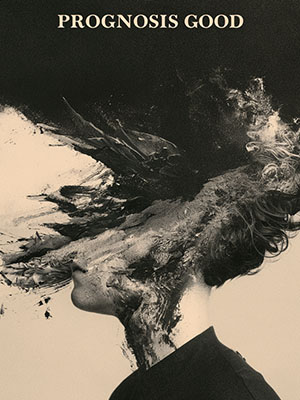
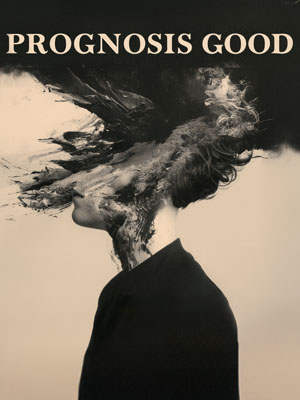
.

diff --git a/short_stories/pixelstortion_Prognosis_Good.html b/short_stories/pixelstortion_Prognosis_Good.html
@@ -614,7 +614,7 @@
     <div class="vignette"></div>
     <div id="progress-bar"></div>
 
-    <audio id="story-audio" src="../spokenWordStory/PixelStortion_Prognosis_Good.mp3" preload="metadata"></audio>
+    <audio id="story-audio" preload="metadata"></audio>
 
     <div id="narration-bar">
         <div class="nb-inner">
@@ -623,8 +623,8 @@
                 <svg id="nb-icon-pause" viewBox="0 0 24 24" xmlns="http://www.w3.org/2000/svg" style="display:none;"><path d="M6 19h4V5H6v14zm8-14v14h4V5h-4z"/></svg>
             </button>
             <div class="nb-main">
-                <div class="nb-label"><span class="nb-kicker">Narration</span><span class="nb-title">Prognosis Good</span></div>
-                <div class="nb-progress" id="nb-progress"><div class="nb-progress-fill" id="nb-fill"></div></div>
+                <div class="nb-label"><span class="nb-kicker">Narration</span><span class="nb-title" id="nb-title">Prognosis Good</span></div>
+                <div class="nb-progress" id="nb-progress"><div class="nb-progress-fill" id="nb-fill"></div><div class="nb-segments" id="nb-segments"></div></div>
             </div>
             <div class="nb-time"><span id="nb-current">0:00</span> / <span id="nb-duration">0:00</span></div>
         </div>
@@ -1326,12 +1326,31 @@
             const nbIconPause = document.getElementById('nb-icon-pause');
             const nbProgress = document.getElementById('nb-progress');
             const nbFill = document.getElementById('nb-fill');
+            const nbSegments = document.getElementById('nb-segments');
+            const nbTitle = document.getElementById('nb-title');
             const nbCurrent = document.getElementById('nb-current');
             const nbDuration = document.getElementById('nb-duration');
 
+            const NARRATION_BASE = '../spokenWordStory/';
+            const NARRATION_PARTS = [
+                { file: 'PixelStortion_Prognosis_Good_part_1.mp3', label: 'Part One' },
+                { file: 'PixelStortion_Prognosis_Good_part_2.mp3', label: 'Part Two' },
+                { file: 'PixelStortion_Prognosis_Good_part_3.mp3', label: 'Part Three' },
+                { file: 'PixelStortion_Prognosis_Good_part_4.mp3', label: 'Part Four' },
+                { file: 'PixelStortion_Prognosis_Good_part_5.mp3', label: 'Part Five' }
+            ];
+
             if (audioEl && nbToggle) {
+                const N = NARRATION_PARTS.length;
                 const POS_KEY = 'narration_pos:' + location.pathname;
+                const durs = new Array(N).fill(0);
+                const cum = new Array(N + 1).fill(0);
+                let total = 0;
+                let durationsReady = false;
+                let current = 0;
                 let nbDragging = false;
+                let advancing = false;   // true while auto-advancing / seeking across parts
+                let gestureBound = false;
                 let lastSave = 0;
 
                 const fmt = (s) => {
@@ -1345,48 +1364,108 @@
                     nbIconPause.style.display = playing ? 'block' : 'none';
                     nbToggle.setAttribute('aria-label', playing ? 'Pause narration' : 'Play narration');
                 };
+                const globalTime = () => (cum[current] || 0) + (audioEl.currentTime || 0);
                 const savePos = () => {
-                    try { localStorage.setItem(POS_KEY, String(audioEl.currentTime)); } catch (e) {}
+                    try { localStorage.setItem(POS_KEY, JSON.stringify({ p: current, t: audioEl.currentTime || 0 })); } catch (e) {}
                 };
-                const restorePos = () => {
-                    nbDuration.textContent = fmt(audioEl.duration);
-                    let saved = 0;
-                    try { saved = parseFloat(localStorage.getItem(POS_KEY)) || 0; } catch (e) {}
-                    if (saved > 1 && saved < audioEl.duration - 2) {
-                        try { audioEl.currentTime = saved; } catch (e) {}
-                        if (audioEl.duration) nbFill.style.width = (saved / audioEl.duration * 100) + '%';
-                        nbCurrent.textContent = fmt(saved);
+                const clearSaved = () => { try { localStorage.removeItem(POS_KEY); } catch (e) {} };
+
+                const render = () => {
+                    nbTitle.textContent = NARRATION_PARTS[current].label;
+                    if (durationsReady && total) {
+                        if (!nbDragging) nbFill.style.width = (globalTime() / total * 100) + '%';
+                        nbCurrent.textContent = fmt(globalTime());
+                        nbDuration.textContent = fmt(total);
+                    } else if (audioEl.duration) {
+                        // fallback until every part is measured: show current part's own progress
+                        if (!nbDragging) nbFill.style.width = (audioEl.currentTime / audioEl.duration * 100) + '%';
+                        nbCurrent.textContent = fmt(audioEl.currentTime);
+                        nbDuration.textContent = fmt(audioEl.duration);
                     }
                 };
+                const buildSegments = () => {
+                    if (!nbSegments || !total) return;
+                    let html = '';
+                    for (let i = 1; i < N; i++) html += '<span class="nb-seg-divider" style="left:' + (cum[i] / total * 100) + '%"></span>';
+                    nbSegments.innerHTML = html;
+                };
 
-                audioEl.addEventListener('loadedmetadata', restorePos);
-                if (audioEl.readyState >= 1) restorePos();
+                const attemptPlay = () => {
+                    audioEl.play().then(() => { advancing = false; }).catch(() => {
+                        advancing = false;
+                        if (gestureBound) return;
+                        gestureBound = true;
+                        const gestures = ['pointerup', 'touchend', 'click', 'keydown'];
+                        const onGesture = (e) => {
+                            if (e.target && e.target.closest && e.target.closest('#narration-bar')) return;
+                            audioEl.play().then(() => {
+                                gestures.forEach(g => document.removeEventListener(g, onGesture, true));
+                                gestureBound = false;
+                            }).catch(() => {});
+                        };
+                        gestures.forEach(g => document.addEventListener(g, onGesture, true));
+                    });
+                };
+
+                const loadPart = (i, play, seekWithin) => {
+                    current = Math.max(0, Math.min(N - 1, i));
+                    advancing = true;
+                    audioEl.src = NARRATION_BASE + NARRATION_PARTS[current].file;
+                    const onReady = () => {
+                        audioEl.removeEventListener('loadedmetadata', onReady);
+                        if (seekWithin && seekWithin > 0) {
+                            try { audioEl.currentTime = Math.min(seekWithin, (audioEl.duration || seekWithin)); } catch (e) {}
+                        }
+                        render();
+                        if (play) attemptPlay(); else advancing = false;
+                    };
+                    audioEl.addEventListener('loadedmetadata', onReady);
+                    audioEl.load();
+                    render();
+                };
+
+                // Preload each part's duration so the unified timeline + section marks are accurate
+                NARRATION_PARTS.forEach((part, i) => {
+                    const probe = new Audio();
+                    probe.preload = 'metadata';
+                    probe.src = NARRATION_BASE + part.file;
+                    probe.addEventListener('loadedmetadata', () => {
+                        durs[i] = probe.duration || 0;
+                        if (durs.every(d => d > 0)) {
+                            for (let k = 0; k < N; k++) cum[k + 1] = cum[k] + durs[k];
+                            total = cum[N];
+                            durationsReady = true;
+                            buildSegments();
+                            render();
+                        }
+                    });
+                });
 
                 audioEl.addEventListener('timeupdate', () => {
                     if (nbDragging) return;
-                    const d = audioEl.duration || 0;
-                    if (d > 0) nbFill.style.width = (audioEl.currentTime / d * 100) + '%';
-                    nbCurrent.textContent = fmt(audioEl.currentTime);
+                    render();
                     const now = Date.now();
                     if (now - lastSave > 3000) { lastSave = now; savePos(); }
                 });
-
-                // Narration is the master: while it plays, the cross-page theme
-                // music fades out; when it stops, the theme fades back in.
                 audioEl.addEventListener('play', () => {
                     setIcons(true);
                     if (typeof window.fadeOutAmbientMusic === 'function') window.fadeOutAmbientMusic();
                 });
                 audioEl.addEventListener('pause', () => {
+                    if (advancing) return;   // part swap, not a real stop
                     setIcons(false);
                     savePos();
                     if (typeof window.resumeAmbientMusic === 'function') window.resumeAmbientMusic();
                 });
                 audioEl.addEventListener('ended', () => {
-                    setIcons(false);
-                    nbFill.style.width = '100%';
-                    try { localStorage.removeItem(POS_KEY); } catch (e) {}
-                    if (typeof window.resumeAmbientMusic === 'function') window.resumeAmbientMusic();
+                    if (current < N - 1) {
+                        loadPart(current + 1, true, 0);   // seamless auto-advance to the next section
+                    } else {
+                        setIcons(false);
+                        nbFill.style.width = '100%';
+                        clearSaved();
+                        if (typeof window.resumeAmbientMusic === 'function') window.resumeAmbientMusic();
+                    }
                 });
 
                 nbToggle.addEventListener('click', () => {
@@ -1394,15 +1473,20 @@
                     else audioEl.pause();
                 });
 
-                // Scrub: click, drag, and touch to seek (return-later friendly)
+                // Seek across the WHOLE narration (click / drag / touch) -> lands in the right part
                 const seekTo = (clientX) => {
+                    if (!durationsReady || !total) return;
                     const r = nbProgress.getBoundingClientRect();
                     const ratio = Math.max(0, Math.min(1, (clientX - r.left) / r.width));
                     nbFill.style.width = (ratio * 100) + '%';
-                    if (audioEl.duration) {
-                        audioEl.currentTime = ratio * audioEl.duration;
-                        nbCurrent.textContent = fmt(audioEl.currentTime);
-                    }
+                    const g = ratio * total;
+                    nbCurrent.textContent = fmt(g);
+                    let j = 0;
+                    while (j < N - 1 && g >= cum[j + 1]) j++;
+                    const within = g - cum[j];
+                    const wasPlaying = !audioEl.paused;
+                    if (j === current) { try { audioEl.currentTime = within; } catch (e) {} }
+                    else { loadPart(j, wasPlaying, within); }
                 };
                 nbProgress.addEventListener('click', (e) => seekTo(e.clientX));
                 nbProgress.addEventListener('mousedown', (e) => { nbDragging = true; seekTo(e.clientX); });
@@ -1412,23 +1496,17 @@
                 document.addEventListener('touchmove', (e) => { if (nbDragging) seekTo(e.touches[0].clientX); }, { passive: true });
                 document.addEventListener('touchend', () => { if (nbDragging) { nbDragging = false; savePos(); } });
 
-                // Let the ambient theme player see/stop narration (mutual exclusivity)
+                // Mutual exclusivity with the ambient theme
                 window.isStoryNarrationPlaying = () => !!audioEl && !audioEl.paused;
                 window.pauseStoryNarration = () => { try { audioEl.pause(); } catch (e) {} };
 
-                // Autoplay when the browser allows (reader arrived via a click, or
-                // has interacted). On a cold load it starts on the first gesture,
-                // ignoring taps on the bar itself so the toggle isn't double-fired.
-                audioEl.play().catch(() => {
-                    const gestures = ['pointerup', 'touchend', 'click', 'keydown'];
-                    const onGesture = (e) => {
-                        if (e.target && e.target.closest && e.target.closest('#narration-bar')) return;
-                        audioEl.play().then(() => {
-                            gestures.forEach(g => document.removeEventListener(g, onGesture, true));
-                        }).catch(() => {});
-                    };
-                    gestures.forEach(g => document.addEventListener(g, onGesture, true));
-                });
+                // Resume where the reader left off (part + position), else start at the top
+                let startPart = 0, startWithin = 0;
+                try {
+                    const saved = JSON.parse(localStorage.getItem(POS_KEY) || 'null');
+                    if (saved && typeof saved.p === 'number') { startPart = Math.max(0, Math.min(N - 1, saved.p)); startWithin = saved.t || 0; }
+                } catch (e) {}
+                loadPart(startPart, true, startWithin);   // load, seek, attempt autoplay (gesture fallback inside)
             }
         });
     </script>
